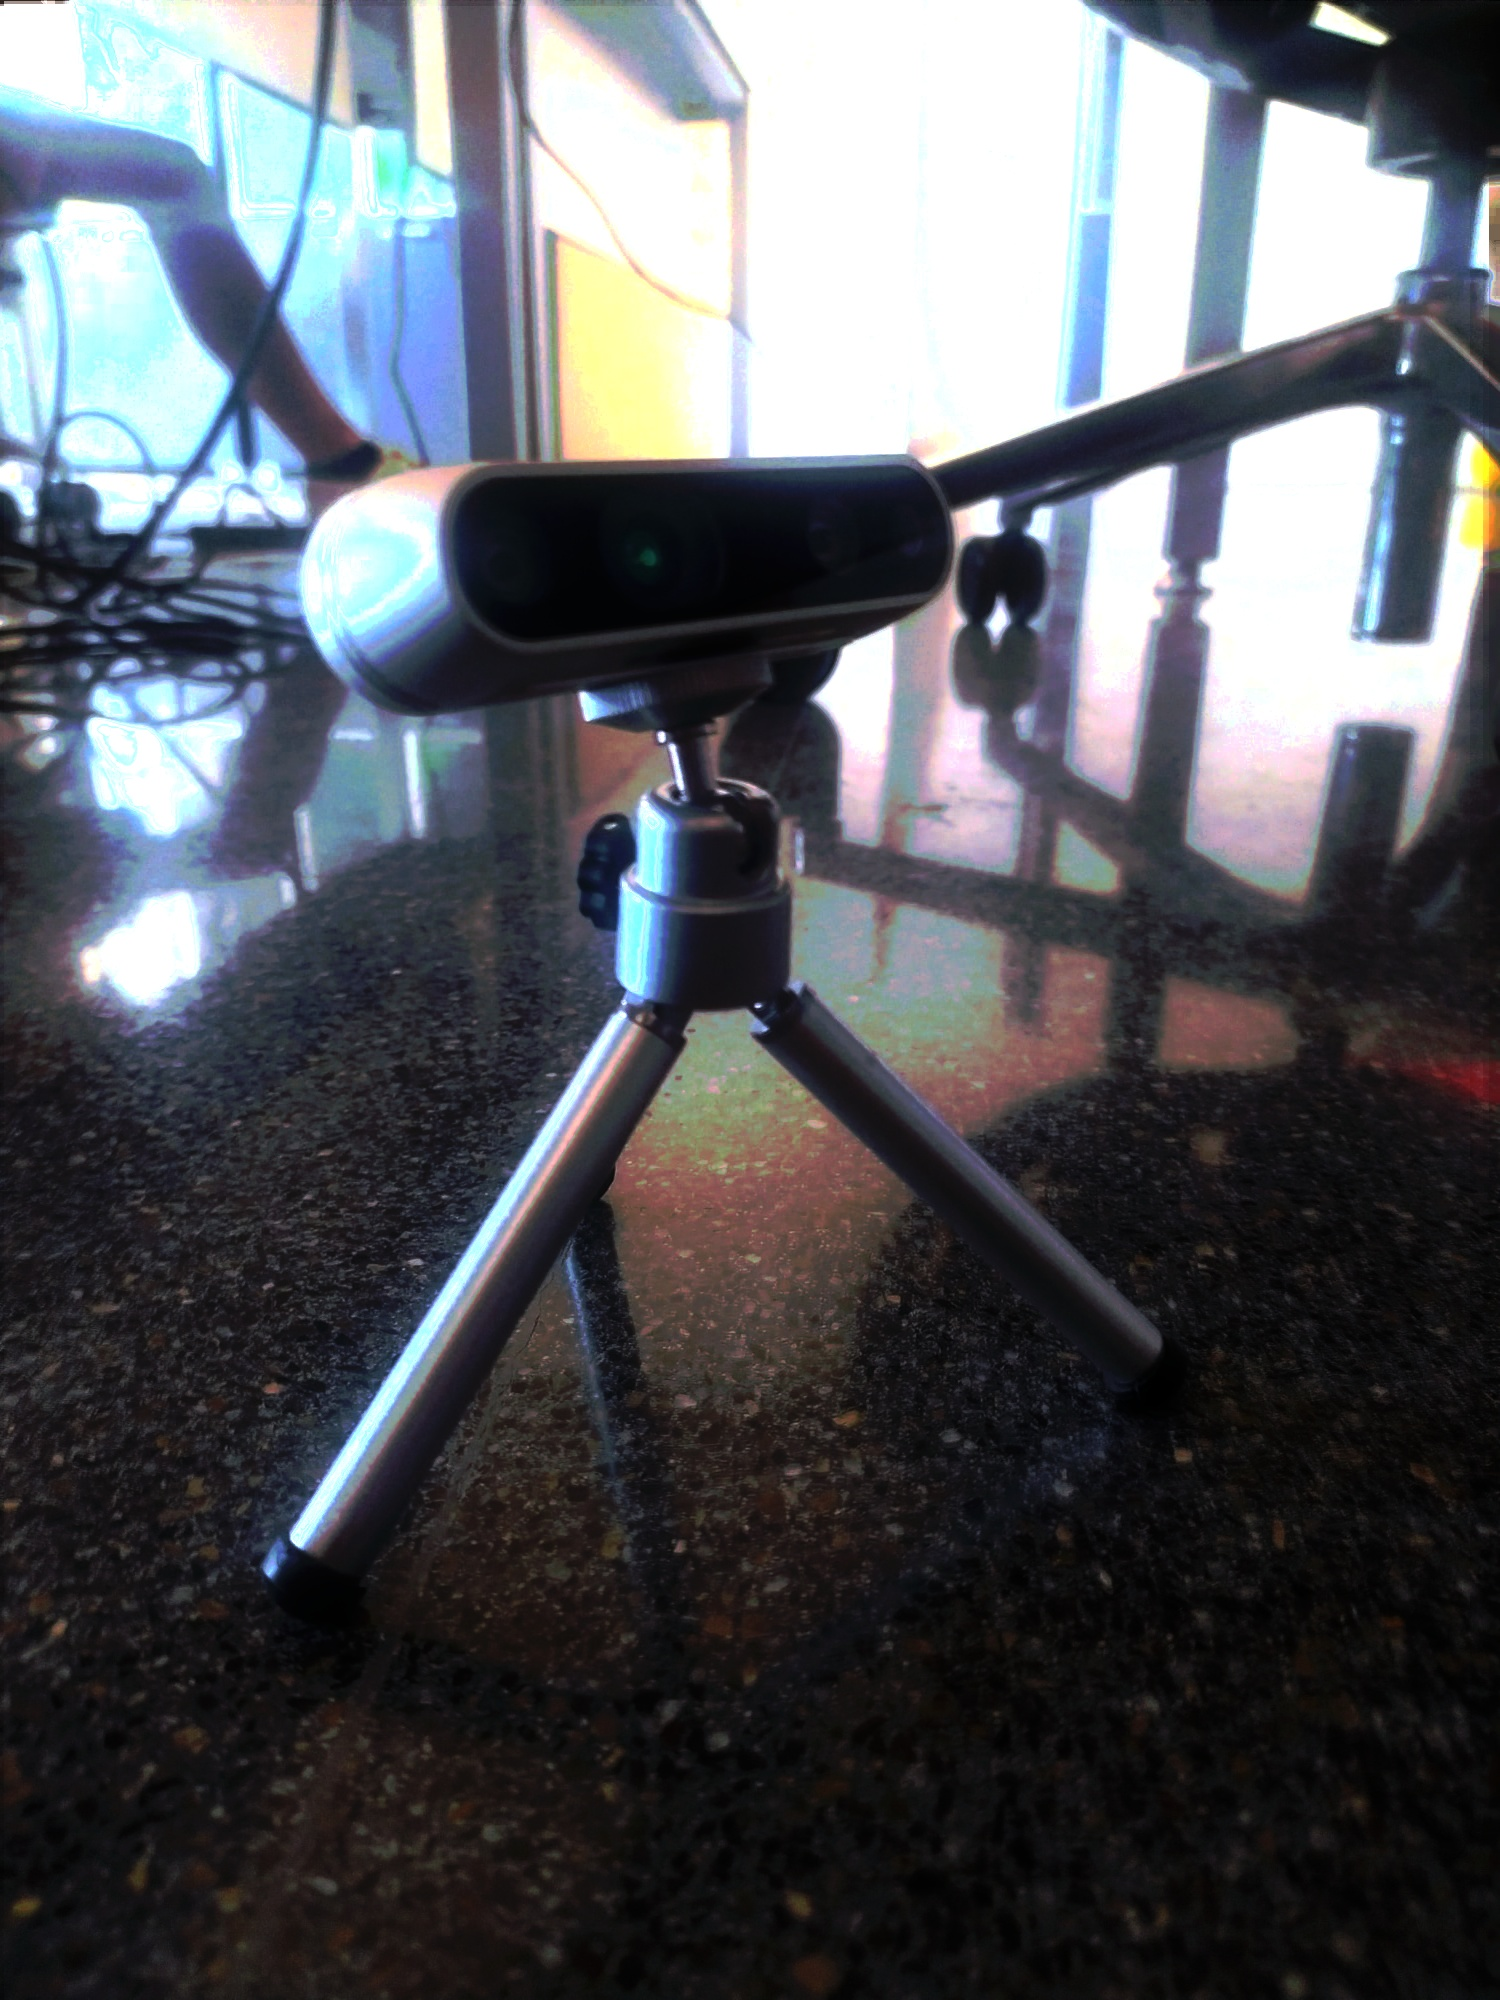
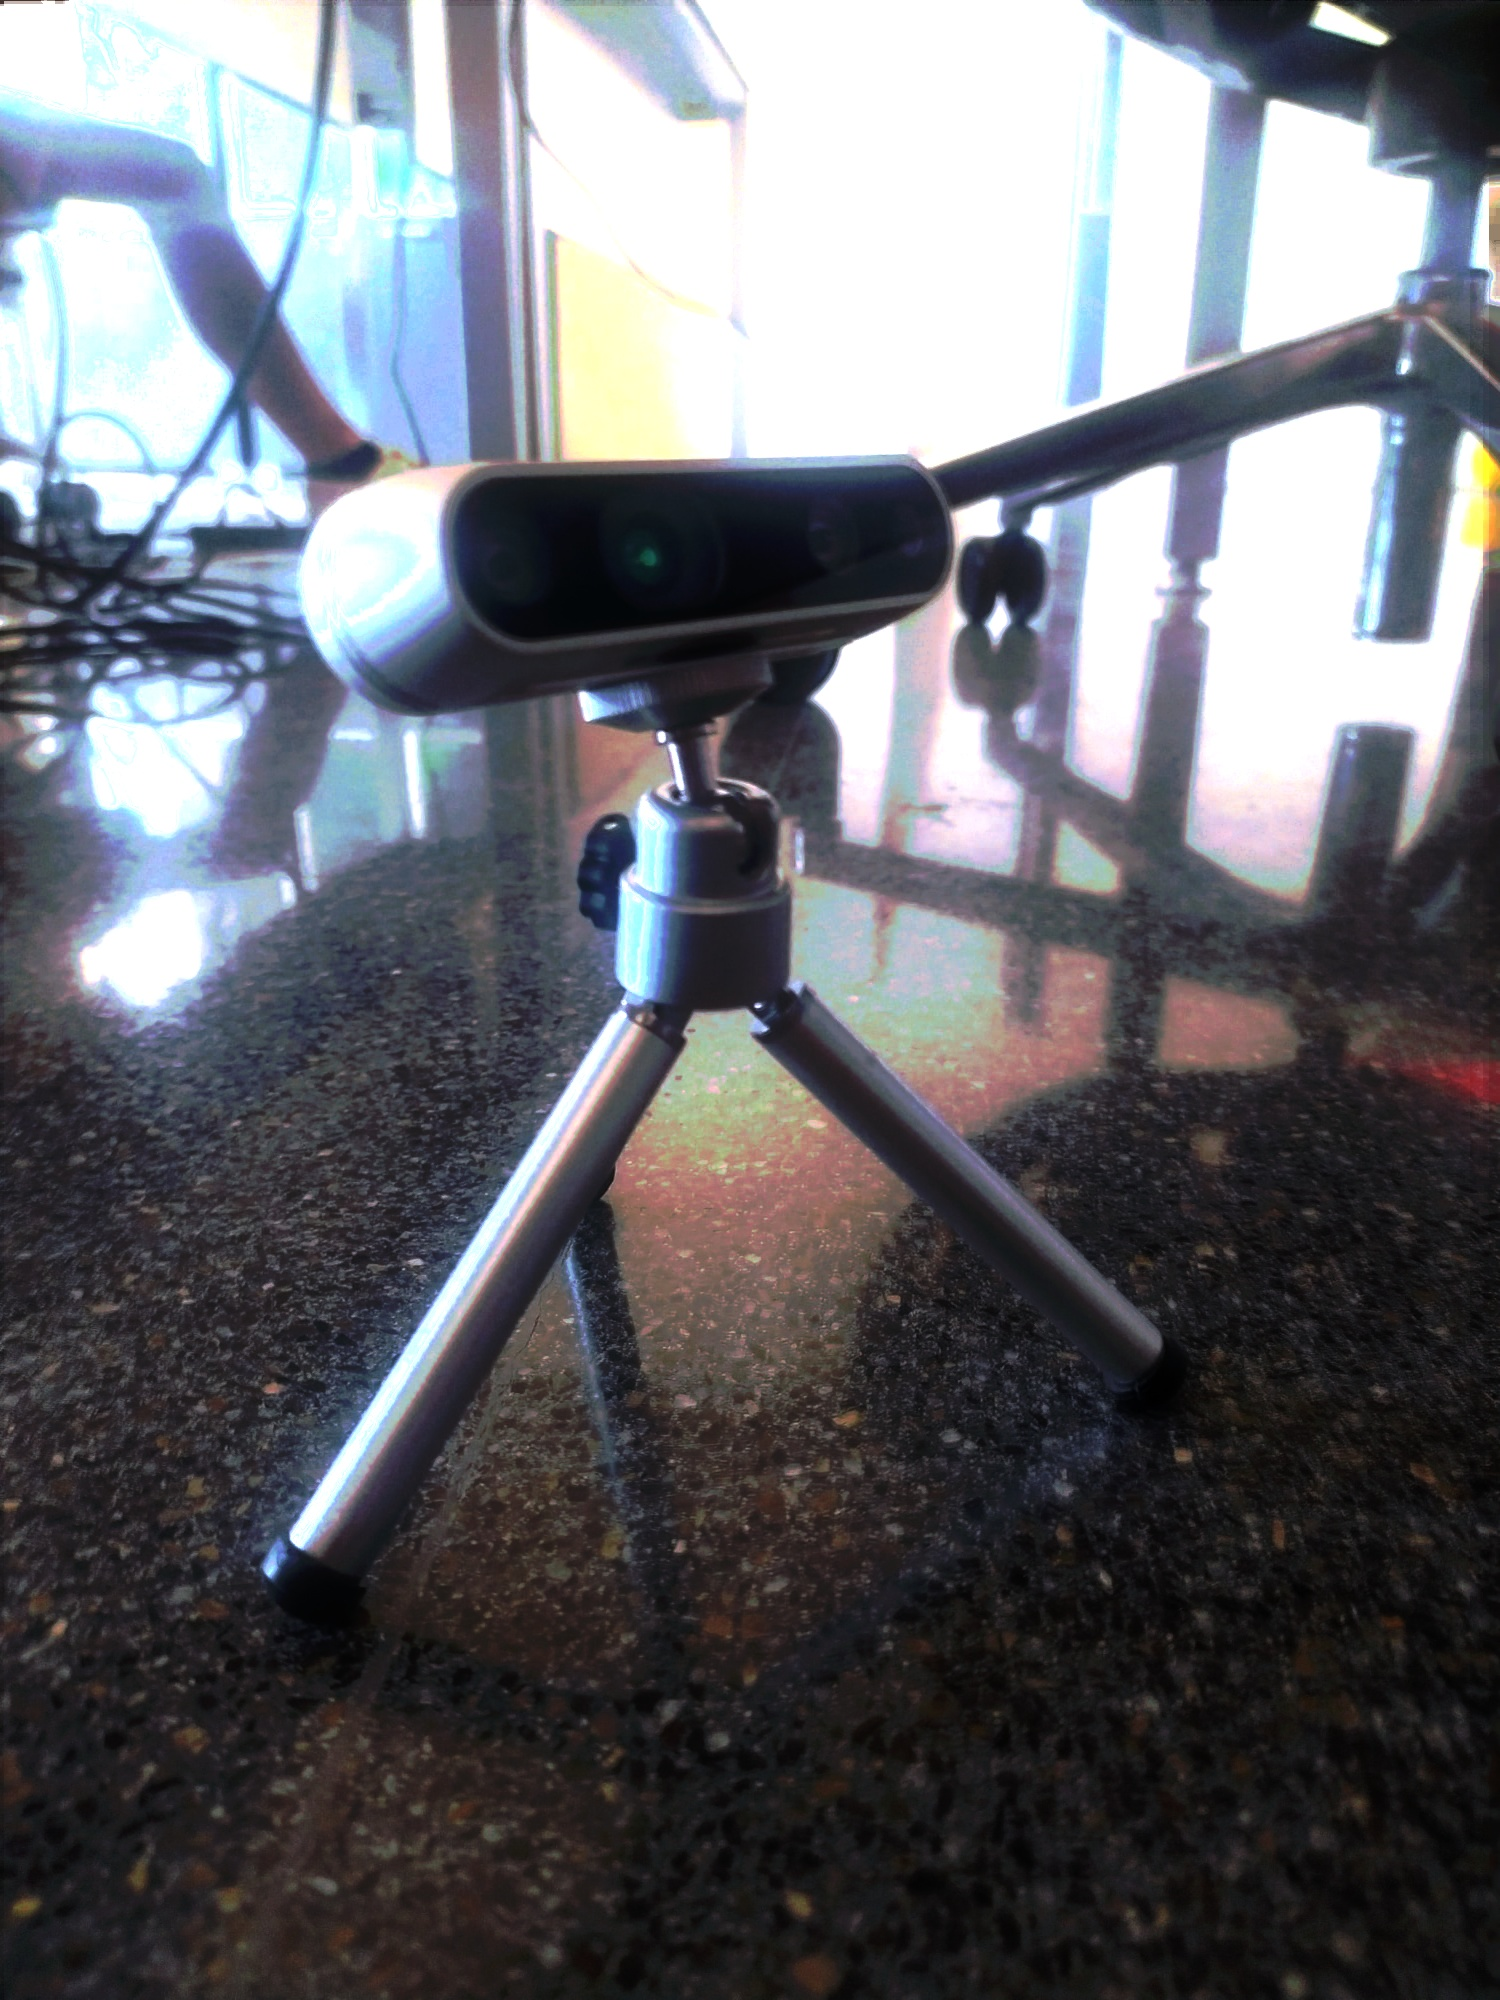
change parameters tonemaps

diff --git a/hdr-reinhard.py b/hdr-reinhard.py
@@ -44,7 +44,7 @@ if __name__ == '__main__':
   
   # # Tonemap using Reinhard's method to obtain 24-bit color image
   print("Tonemaping using Reinhard's method ... ")
-  tonemapReinhard = cv2.createTonemapReinhard(1.5, 0,0,0)
+  tonemapReinhard = cv2.createTonemapReinhard(1.5, 0,1,0)
   ldrReinhard = tonemapReinhard.process(hdrDebevec)
   cv2.imwrite("ldr-Reinhard.jpg", ldrReinhard * 255)
   print("saved ldr-Reinhard.jpg")

diff --git a/hdr-drago.py b/hdr-drago.py
@@ -44,7 +44,7 @@ if __name__ == '__main__':
   
   # # Tonemap using Drago's method to obtain 24-bit color image
   print("Tonemaping using Drago's method ... ")
-  tonemapDrago = cv2.createTonemapDrago(1.0, 0.7)
+  tonemapDrago = cv2.createTonemapDrago(1, 0.7,0.85)
   ldrDrago = tonemapDrago.process(hdrDebevec)
   ldrDrago = 3 * ldrDrago
   cv2.imwrite("ldr-Drago.jpg", ldrDrago * 255)
